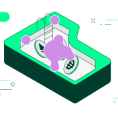
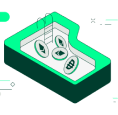
all done

Changed region(s): [[0.3559, 0.287, 0.6356, 0.6261], [0.4068, 0.1304, 0.5085, 0.2348], [0.178, 0.287, 0.2797, 0.3913]]

diff --git a/src/assets/scss/_banner.scss b/src/assets/scss/_banner.scss
@@ -1,11 +1,41 @@
 .banner{
     position: relative;
-    z-index: 1;
-    padding-top: 90px;
+    z-index: 3;
+    padding-top: 190px;
     padding-bottom: 65px;
     @include mmd{
-        padding-top: 50px;
+        padding-top: 150px;
         padding-bottom: 60px;
+    }
+    &::before{
+       @include sm{
+        position: absolute;
+        content: "";
+        top: 0;
+        left: 0;
+        width: 100%;
+        height: 100%;
+        background-color: rgba($color: #C8B258, $alpha: 0.3);
+        z-index: 1;
+       }
+        
+    }
+    &::after{
+        position: absolute;
+        content: "";
+        right: 8.5%;
+        top: 20%;
+        width: 47%;
+        height: 100px;
+        background-image: url('../img/animated-christmas-light-gif-4.gif');
+        background-position: top right;
+        background-repeat: repeat;
+        background-size: contain;
+        transform: rotate(4deg);
+        z-index: -1;
+        @include sm{
+            display: none;
+        }
     }
     .heroBg img{
         position: absolute;
@@ -14,9 +44,13 @@
         width: 100%;
         height: 100%;
         z-index: -1;
-        object-fit: cover;
+        @include sm{
+            object-fit: cover;
+        }
     }
     &-content{
+        position: relative;
+        z-index: 9;
         h1{
             margin-bottom: 25px;
         }
@@ -28,11 +62,6 @@
             @include mmd{
                 margin-inline: auto;
             }
-        }
-        .copytoclipboard p{
-            max-width: 100%;
-            font-size: 25px;
-            text-align: start;
         }
         a.boxed-btn.transparent{
             background: transparent;
@@ -46,11 +75,12 @@
             font-style: normal;
             font-weight: 700;
             text-transform: uppercase;
+            padding-bottom: 12px;
         }
         .socials{
             border-radius: 11.689px;
             border: 1.461px solid #0B0903;
-            padding: 15px;
+            padding: 13px;
             gap: 10px;            
             img{
                 max-width: 24px;

diff --git a/src/assets/scss/_Roadmap.scss b/src/assets/scss/_Roadmap.scss
@@ -145,16 +145,39 @@
             @include sm{
                 padding-left: 0px;
             }
-            .roadmapItemImg img{
-                left: -40px; 
-                right: auto;
-                transform: translateY(-30%);
-                @include mmd{
-                    left: 10px;
-                    transform: translateY(-50%);
+            .roadmapItemImg{
+                max-width: 270px;
+                position: relative;
+                .roadmapPizzaPhase2BG{
+                    position: absolute;
+                    max-width: 250px;
+                    top: auto;
+                    left: -40px; 
+                    right: auto;
+                    bottom: 0 !important;
+                    transform: translateY(25%);
+                    @include mmd{
+                        left: 10px;
+                        transform: translateY(-50%);
+                    }
+                    @include sm{
+                       display: none;               
+                    }
                 }
-                @include sm{
-                   display: none;               
+                .roadmapPizzaPhase2{
+                    z-index: 2;
+                    left: -20px;
+                    transform: translateY(10%);
+                }
+                .fireGif{
+                    position: absolute;
+                    max-width: 50px;
+                    left:65px;
+                    transform: translateY(-60px);
+                    z-index: 1;
+                    @include mmd{
+                        max-width: 30px;
+                    }
                 }
             }
             .title{

diff --git a/src/assets/scss/_header.scss b/src/assets/scss/_header.scss
@@ -1,13 +1,11 @@
-@keyframes headerAnimation {
-    0% {
-        transform: translateY(-20px);
-    }
-    100% {
-        transform: translateY(0px);
-    }
-}
+
 
 .heading {
+    position: absolute;
+    width: 100%;
+    left: 0;
+    top: 0;
+    z-index: 999;
     border-bottom: 2px solid #010000;
     background: $white;
     padding: var(--bs-navbar-padding-y) 0;
@@ -21,16 +19,16 @@
         width: 100%;
         top: 0;
         animation: headerAnimation .5s linear;
-        --bs-navbar-padding-y: 15px;
+        --bs-navbar-padding-y: 10px;
         @include mmd {
-            --bs-navbar-padding-y: 20px;
+            --bs-navbar-padding-y: 10px;
         }
         @include sm {
-            --bs-navbar-padding-y: 12px;
+            --bs-navbar-padding-y: 8px;
         }
     }
     &-menu {
-        max-width: 360px;
+        width: max-content;
         padding: 4px;
         border-radius: 8px;
         border: 1px solid #0B0903;
@@ -71,8 +69,8 @@
         @include font-22;
         color: $paragraph;
         display: block;
-        padding: 18px 12px;
-        padding-bottom: 13px;
+        padding: 10px 16px;
+        padding-bottom: 6px;
         border-radius: 4px;
         cursor: pointer;
         @include lg {
@@ -137,7 +135,8 @@
         }
     }
     .boxed-btn{
-        padding: 8px 24px;
+        padding: 10px 24px;
         font-size: 20px;
+        padding-bottom: 7px;
     }
 }

diff --git a/src/components/Roadmap.jsx b/src/components/Roadmap.jsx
@@ -4,6 +4,9 @@ import roadmaptitleBg from '../assets/img/roadmaptitleBg.png'
 import roadmapItemImg1 from '../assets/img/roadmapItemImg1.png'
 import roadmapItemImg2 from '../assets/img/roadmapItemImg2.png'
 import roadmapItemImg3 from '../assets/img/roadmapItemImg3.png'
+import roadmapPizzaPhase2 from '../assets/img/roadmapPizzaPhase2.png'
+import roadmapPizzaPhase2BG from '../assets/img/roadmapPizzaPhase2BG.png'
+import tokensiImg2 from '../assets/img/tokensiImg2.gif'
 import MarqueeTop from './MarqueeTop'
 
 export default function Roadmap() {
@@ -49,9 +52,11 @@ export default function Roadmap() {
                   <li>Establishing a vibrant community through social media and meme campaigns.</li>
                   <li>Listing on major exchanges for maximum accessibility.</li>
                 </ul>
-                <figure className='roadmapItemImg'>
-                  <img src={roadmapItemImg2} alt="" />
-                </figure>
+                <div className='roadmapItemImg'>
+                  <img className='fireGif' src={tokensiImg2} alt="" />
+                  <img  className='roadmapPizzaPhase2' src={roadmapPizzaPhase2} alt="" />
+                  <img className='roadmapPizzaPhase2BG' src={roadmapPizzaPhase2BG} alt="" />
+                </div>
               </div>
 
               <div className="wrapper-item">

diff --git a/src/assets/scss/_tokenomics.scss b/src/assets/scss/_tokenomics.scss
@@ -19,6 +19,7 @@
         height: 100%;
         z-index: -1;
     }
+    
     &-content{
         max-width: 950px;
         border-radius: 56px;
@@ -76,10 +77,11 @@
                     }
                     img{
                         position: absolute;
-                        right: 10px;
+                        right: 20px;
                         top: 50%;
                         transform: translateY(-50%);
                         max-width: 80px;
+                        height: 80px;
                     }
                 }
                 .pizzaItemBG{
@@ -92,5 +94,24 @@
                 }
             }
         }
+    }   
+}
+.coffee {
+    max-width: 350px;
+    position: absolute;
+    right: 6%;
+    bottom: 20%;
+    @include xl{
+        right: 1%;
+    }
+    @include lg{
+        right: 1%;
+        bottom: 17%;
+    }
+    @include mmd{
+        max-width: 250px;
+        right: 1%;
+        bottom: 14.5%;
+        z-index: -1;
     }
 }

diff --git a/src/assets/scss/_copyToClip.scss b/src/assets/scss/_copyToClip.scss
@@ -5,6 +5,7 @@
     background: #FEFEB5;
     box-shadow: 1.999px 3.997px 0px 0px #0E0E00;
     padding: 20px 16.622px 20px 22.378px;
+    padding-bottom: 18px;
     color: $black;
     font-family: $font_FormulaCondensedLight;
     font-size: 25px;
@@ -13,6 +14,7 @@
     line-height: 120%;
     letter-spacing: 2px;
     max-width: 567px;
+    overflow: hidden;
     @include mmd{
         margin-inline:auto
     }
@@ -23,8 +25,14 @@
         font-size: 18px;
     }
     p{
+        max-width: 90%;
+        font-size: 25px;
+        text-align: start;
+        z-index: -1;
+        margin-left: 0;
+        overflow: hidden;
+        margin-left: 0;
         margin-bottom: 0;
-        padding-right: 30px;
     }
     button{
         position: absolute;

diff --git a/src/components/About.jsx b/src/components/About.jsx
@@ -3,6 +3,7 @@ import { Col, Container, Row } from 'react-bootstrap'
 import aboutBg from '../assets/img/aboutBg.jpg'
 import aboutTopShap from '../assets/img/aboutTopShap.png'
 import aboutBottomShap from '../assets/img/aboutBottomShap.png'
+import coffe from '../assets/img/coffe.gif'
 import MarqueeTop from './MarqueeTop'
 import MarqueeBottom from './MarqueeBottom'
 export default function About(){
@@ -24,6 +25,7 @@ export default function About(){
                         </div>
                     </Col>
                 </Row>
+                <img className='coffee' src={coffe} alt="" />
             </Container>
             <figure className='aboutBottomShap'>
                 <img src={aboutBottomShap} alt="" />

diff --git a/src/components/Tokenomics.jsx b/src/components/Tokenomics.jsx
@@ -2,9 +2,9 @@ import React from 'react'
 import { Col, Container, Row } from 'react-bootstrap'
 import tokenomicsBG from '../assets/img/tokenomicsBG.png'
 import tokensiImg1 from '../assets/img/tokensiImg1.png'
-import tokensiImg2 from '../assets/img/tokensiImg2.png'
-import tokensiImg3 from '../assets/img/tokensiImg3.png'
-import tokensiImg4 from '../assets/img/tokensiImg4.png'
+import tokensiImg2 from '../assets/img/tokensiImg2.gif'
+import tokensiImg3 from '../assets/img/tokensiImg3.gif'
+import tokensiImg4 from '../assets/img/tokensiImg4.gif'
 import tokenPizzaSlize from '../assets/img/pizzaSingle-Item-BG.png'
 export default function Tokenomics() {
     const tokenItems =[

diff --git a/src/components/CopyToClipboard.jsx b/src/components/CopyToClipboard.jsx
@@ -23,7 +23,7 @@ export default function CopyToClipboard() {
     <div className="copytoclipboard-inner mt-3 pt-2">
         <h4>CONTRACT ADDRESS </h4>
       <div className="copytoclipboard">
-        <p style={{ overflowWrap: 'break-word' }}>
+        <p className='d-flex'>
           <strong>CA:</strong> {textToCopy}
         </p>
         <button onClick={handleCopyToClipboard}>

diff --git a/src/components/Header.jsx b/src/components/Header.jsx
@@ -15,7 +15,7 @@ export default function Header() {
   const [scrolled, setScrolled] = useState(false);
   useEffect(() => {
     const handleScroll = () => {
-      const isScroll = window.scrollY > 100;
+      const isScroll = window.scrollY > 0;
       setScrolled(isScroll);
     };
     window.addEventListener('scroll', handleScroll);
